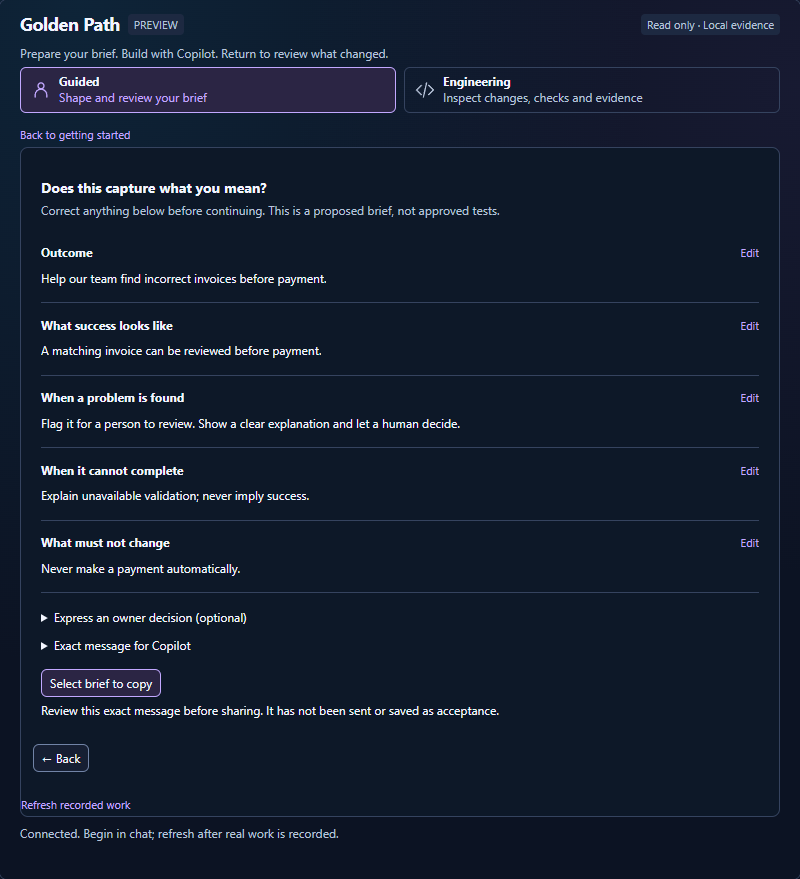
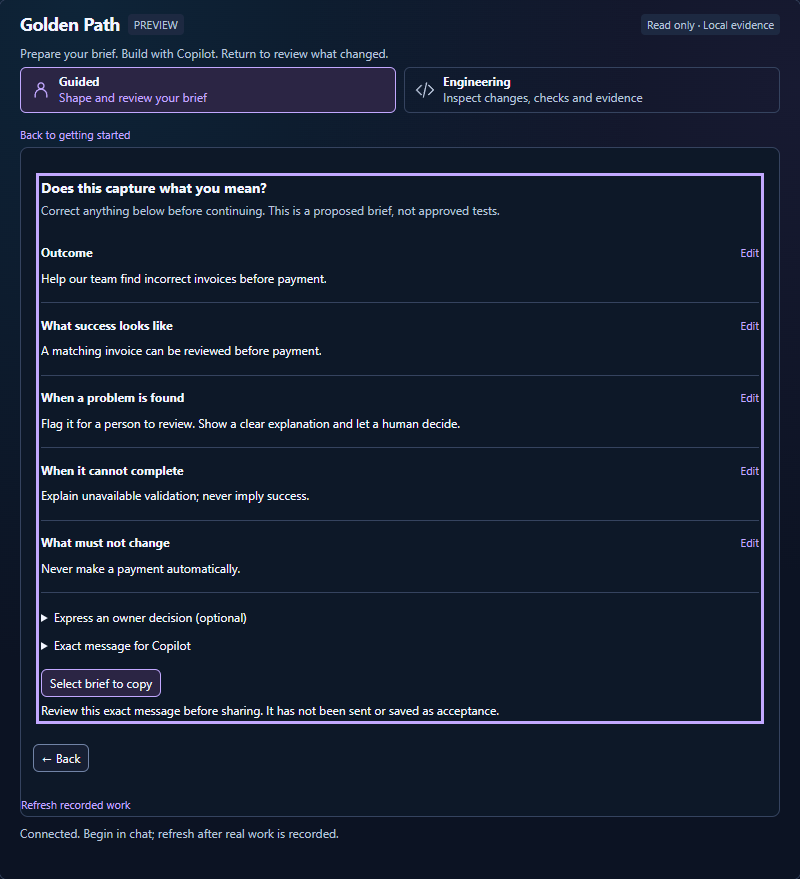
MCP Apps: focus the brief review after navigation
Use the existing panel-focus handling when review hides the current Continue or Apply control. Verify keyboard focus after completing questions and applying a supplied draft through both the actual UI regression and browser bridge.

Changed region(s): [[0.0312, 0.1843, 0.9688, 0.8294]]

diff --git a/CHANGELOG.md b/CHANGELOG.md
@@ -13,6 +13,7 @@ History of the kit. The current way to adopt it is in the [README](README.md); t
   workflow and declaration presence facts. Regression checks cover each case.
   Applying a supplied replacement brief resets an earlier owner expression to
   review, including when accepted delivery leaves the App open.
+  Entering brief review focuses the visible panel rather than a hidden control.
 
 - **Ship the companion journey in both entry points.** The kit and generated
   method-only starter explain Guided briefing, continuing in existing Copilot

diff --git a/examples/mcp-app/README.md b/examples/mcp-app/README.md
@@ -45,6 +45,7 @@ to review; using a partial one asks only for the remaining fields.
 Suggested exception responses are unselected until chosen. Unknowns can be
 stated explicitly rather than invented. Returning from an edit preserves all
 other answers and skips their questions.
+Entering brief review moves keyboard focus to the newly visible review panel.
 
 The review has one primary handoff: **Continue in Copilot chat**, or select/copy
 when messaging is unsupported. The exact outgoing text is available on demand.
